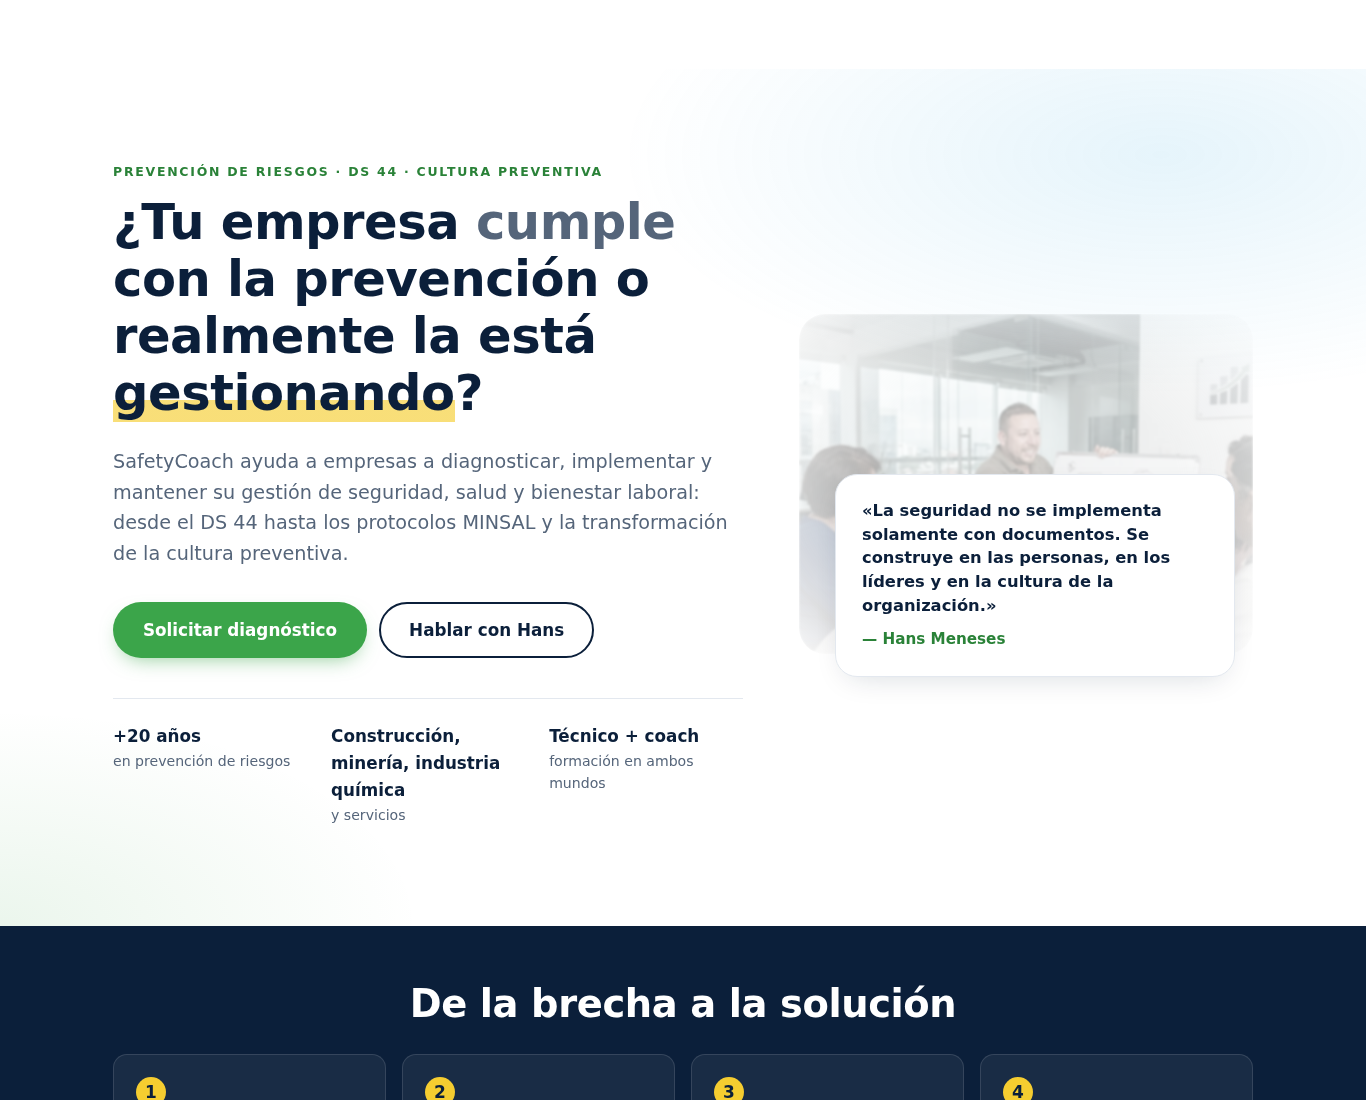
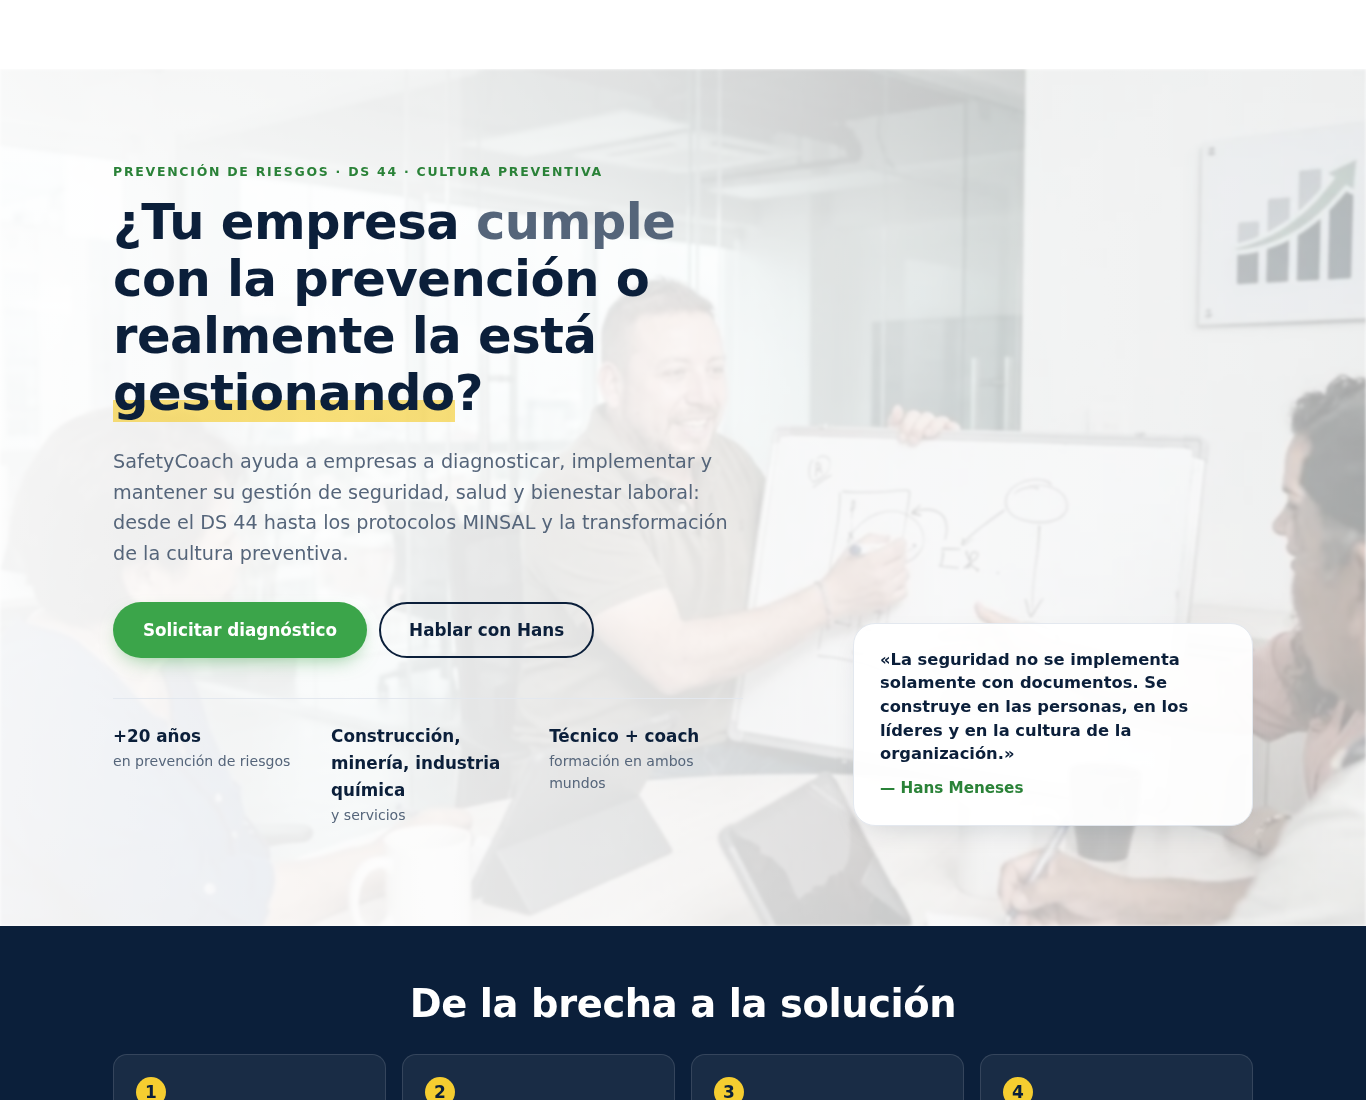
Imágenes referenciales como fondo de sección a todo el ancho
La foto de la portada y la de la bodega (DS 44) pasan a ser fondos
difuminados de borde a borde, con velo blanco para mantener la lectura.

Claude-Session: https://claude.ai/code/session_017Tpmnq8JcWow7ZpMtxcRkJ

diff --git a/index.html b/index.html
@@ -108,7 +108,8 @@
   <main id="contenido">
 
     <!-- ===================== HERO ===================== -->
-    <section class="hero">
+    <section class="hero bg-photo">
+      <div class="bg-photo-img" aria-hidden="true"><img src="/assets/img/hans-facilitando.webp" alt="" width="1195" height="896" fetchpriority="high"></div>
       <div class="wrap hero-grid">
         <div class="hero-copy">
           <p class="eyebrow">Prevención de riesgos · DS&nbsp;44 · Cultura preventiva</p>
@@ -126,7 +127,6 @@
           </ul>
         </div>
         <div class="hero-visual">
-          <img class="hero-ill ai-soft" src="/assets/img/hans-facilitando.webp" alt="Hans Meneses facilitando una sesión de trabajo con un equipo" width="1195" height="896" fetchpriority="high">
           <div class="quote-card">
             <p>«La seguridad no se implementa solamente con documentos. Se construye en las personas, en los líderes y en la cultura de la organización.»</p>
             <span>— Hans Meneses</span>
@@ -167,16 +167,12 @@
     </section>
 
     <!-- ===================== BLOQUE 4: DS 44 ===================== -->
-    <section class="section alt" id="ds44" aria-labelledby="ds44-t">
+    <section class="section alt bg-photo" id="ds44" aria-labelledby="ds44-t">
+      <div class="bg-photo-img" aria-hidden="true"><img src="/assets/img/terreno-bodega.webp" alt="" width="700" height="928" loading="lazy"></div>
       <div class="wrap">
         <p class="eyebrow">Servicio principal</p>
-        <div class="intro-media">
-          <div>
         <h2 id="ds44-t">¿Tu empresa está realmente preparada para el DS&nbsp;44?</h2>
         <p class="sub">El DS&nbsp;44 ordena la gestión preventiva de las empresas en Chile: política, organización, matriz de riesgos, programa de trabajo, información a los trabajadores, emergencias y seguimiento. La pregunta no es si tienes los documentos, sino si tu sistema funciona y puedes demostrarlo. Te acompaño de principio a fin.</p>
-          </div>
-          <img class="media-img ai-soft" src="/assets/img/terreno-bodega.webp" alt="Revisión en terreno de condiciones de seguridad en una bodega" width="700" height="928" loading="lazy">
-        </div>
         <div class="ds-grid">
           <article class="ds-col">
             <h3><span class="tag">01</span> Diagnóstico</h3>

diff --git a/assets/css/styles.css b/assets/css/styles.css
@@ -452,4 +452,19 @@ details p { padding: 0 22px 18px; margin: 0; color: var(--muted); }
   -webkit-mask-image: linear-gradient(#000 40%, transparent);
           mask-image: linear-gradient(#000 40%, transparent);
 }
-.hero-visual .ai-soft + .quote-card { margin-top: -180px; }
+
+/* ---------- Imagen referencial como fondo de sección, de borde a borde ---------- */
+.bg-photo { position: relative; overflow: hidden; isolation: isolate; }
+.bg-photo-img { position: absolute; inset: 0; z-index: -1; }
+.bg-photo-img img { width: 100%; height: 100%; object-fit: cover; object-position: center 35%; opacity: .55; filter: grayscale(.35) blur(1.5px); }
+.bg-photo-img::after { content: ""; position: absolute; inset: 0;
+  background: linear-gradient(90deg, rgba(255,255,255,.92) 0%, rgba(255,255,255,.78) 45%, rgba(255,255,255,.35) 100%); }
+#ds44 .bg-photo-img::after { background: linear-gradient(180deg, rgba(245,247,250,.80) 0%, rgba(245,247,250,.90) 45%, rgba(245,247,250,.97) 100%); }
+#ds44 .bg-photo-img img { object-position: center 25%; }
+.hero.bg-photo { background: none; }
+.hero.bg-photo .hero-visual { align-self: end; }
+.hero.bg-photo .hero-visual .quote-card { margin: 0 0 0 auto; box-shadow: var(--shadow); background: rgba(255,255,255,.94); }
+@media (max-width: 900px) {
+  .bg-photo-img::after { background: linear-gradient(180deg, rgba(255,255,255,.90), rgba(255,255,255,.80)); }
+  .hero.bg-photo .hero-visual .quote-card { margin: 0; }
+}
